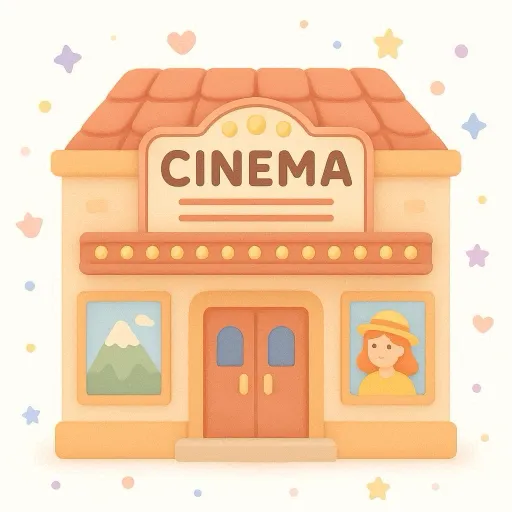
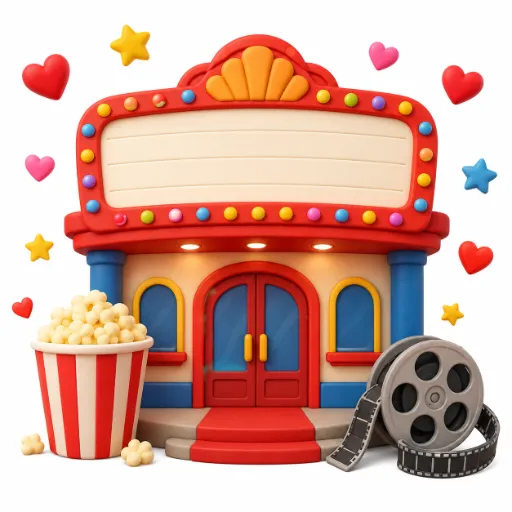
MC: sličica uz tačan (zeleni) odgovor + cinema/estació bez teksta
- MultipleChoice: kad se izabere tačan odgovor (zeleno), prikaže se mala slika
  pojma pored njega (ne odaje odgovor tokom pitanja). getWordIllustration sad skida
  i predloge (A l'hospital -> hospital, Al museu -> museu). Radi za sve MC zadatke.
- cinema: regen bez teksta (kokice/film-rolna/marquee svetla) - prepoznatljiv bez reči
- estació: regen - istaknuta zgrada+peron (bio dominantan voz, mešalo se sa 'tren')
- SW keš v8 -> v9

diff --git a/src/components/tasks/MultipleChoice.tsx b/src/components/tasks/MultipleChoice.tsx
@@ -134,7 +134,10 @@ export default function MultipleChoice({ task, onComplete, review = false }: Pro
                     : "bg-gray-50 border-2 border-gray-200 text-[var(--text)] hover:bg-gray-100"
               }`}
             >
-              {getWordIllustration(option) ? <img src={getWordIllustration(option)!} alt="" className="w-12 h-12 object-contain inline mr-2" /> : null}
+              {/* Sličicu prikazujemo SAMO uz zeleni tačan odgovor (ne odaje odgovor tokom pitanja) */}
+              {showResult && i === question.correct && getWordIllustration(option) ? (
+                <img src={getWordIllustration(option)!} alt="" className="w-12 h-12 object-contain inline mr-2 align-middle" />
+              ) : null}
               {option}
               {showResult && i === question.correct && " ✅"}
               {showResult && i === selected && !isCorrect && (

diff --git a/src/lib/illustrations.ts b/src/lib/illustrations.ts
@@ -934,8 +934,9 @@ function stripAccents(s: string): string {
 }
 
 // Get the illustration image path for a word (returns null if no illustration exists)
-// Common Catalan articles to strip when looking up illustrations
-const CATALAN_ARTICLES = /^(el |la |l'|els |les |un |una )/;
+// Common Catalan articles + prepositional forms to strip when looking up illustrations
+// (npr. "A l'hospital" → hospital, "Al museu" → museu, "Al semàfor" → semàfor)
+const CATALAN_ARTICLES = /^(a l'|a la |a les |als |al |el |la |l'|els |les |un |una |a )/;
 
 export function getWordIllustration(word: string): string | null {
   // Normalize spaces AND apostrophes to dashes so "parada d'autobús" → "parada-d-autobus"

diff --git a/public/sw.js b/public/sw.js
@@ -1,4 +1,4 @@
-const CACHE_NAME = "catala-v8";
+const CACHE_NAME = "catala-v9";
 const STATIC_ASSETS = [
   "/",
   "/manifest.json",
